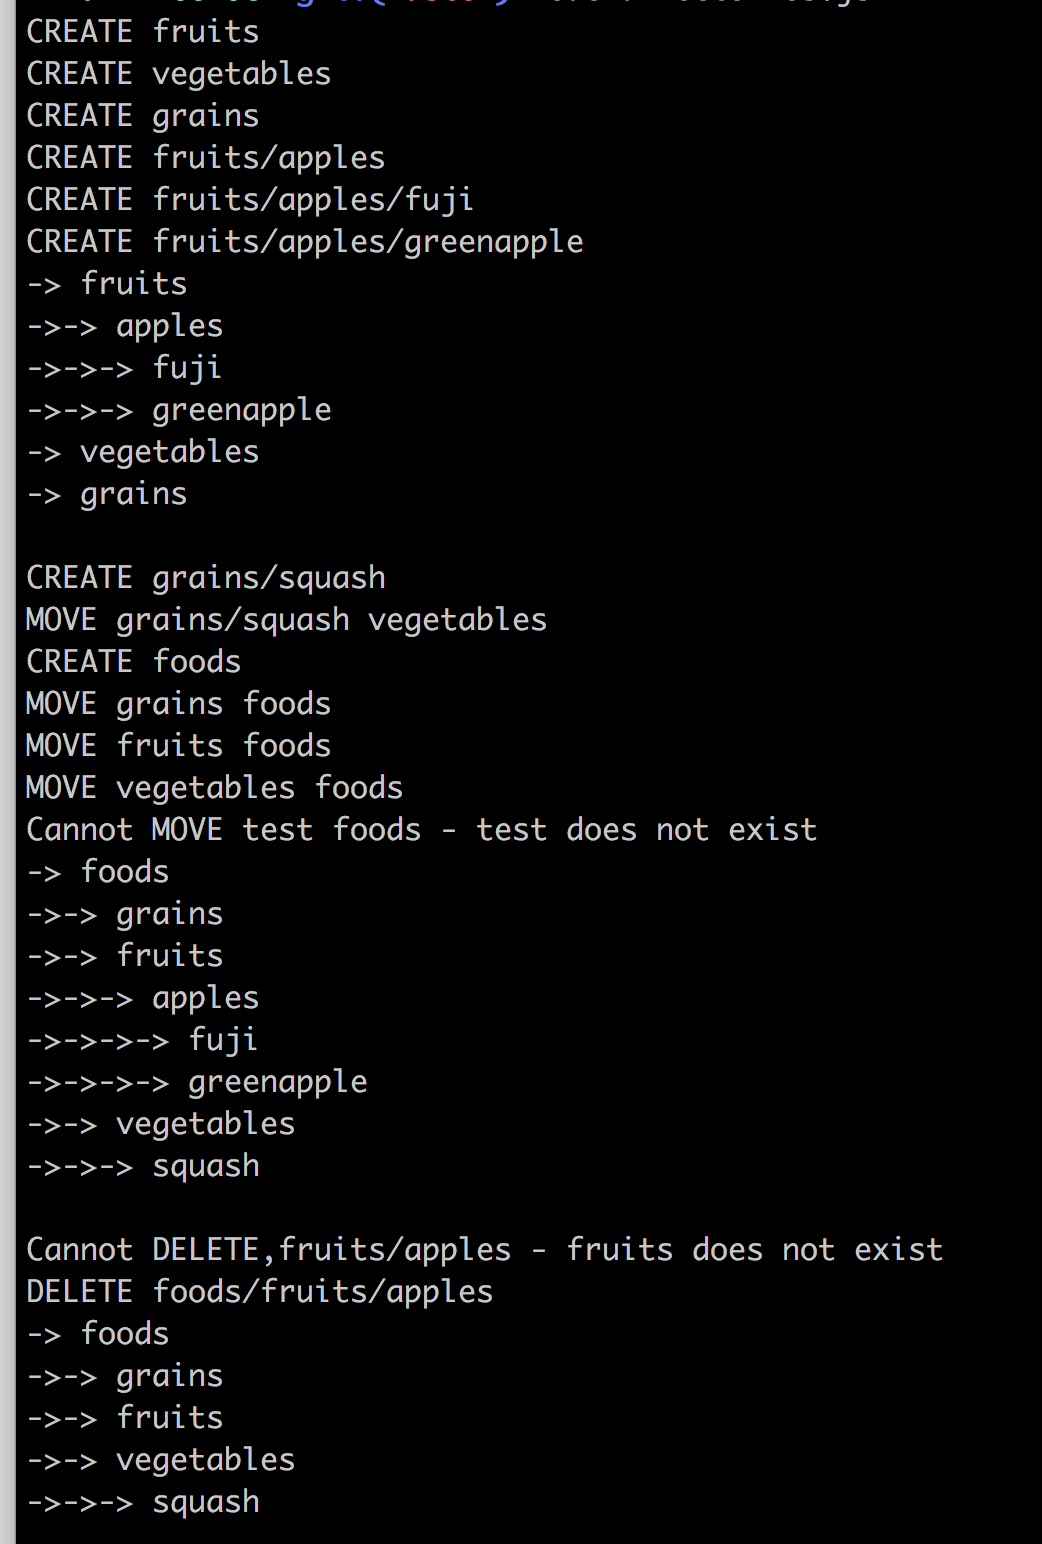
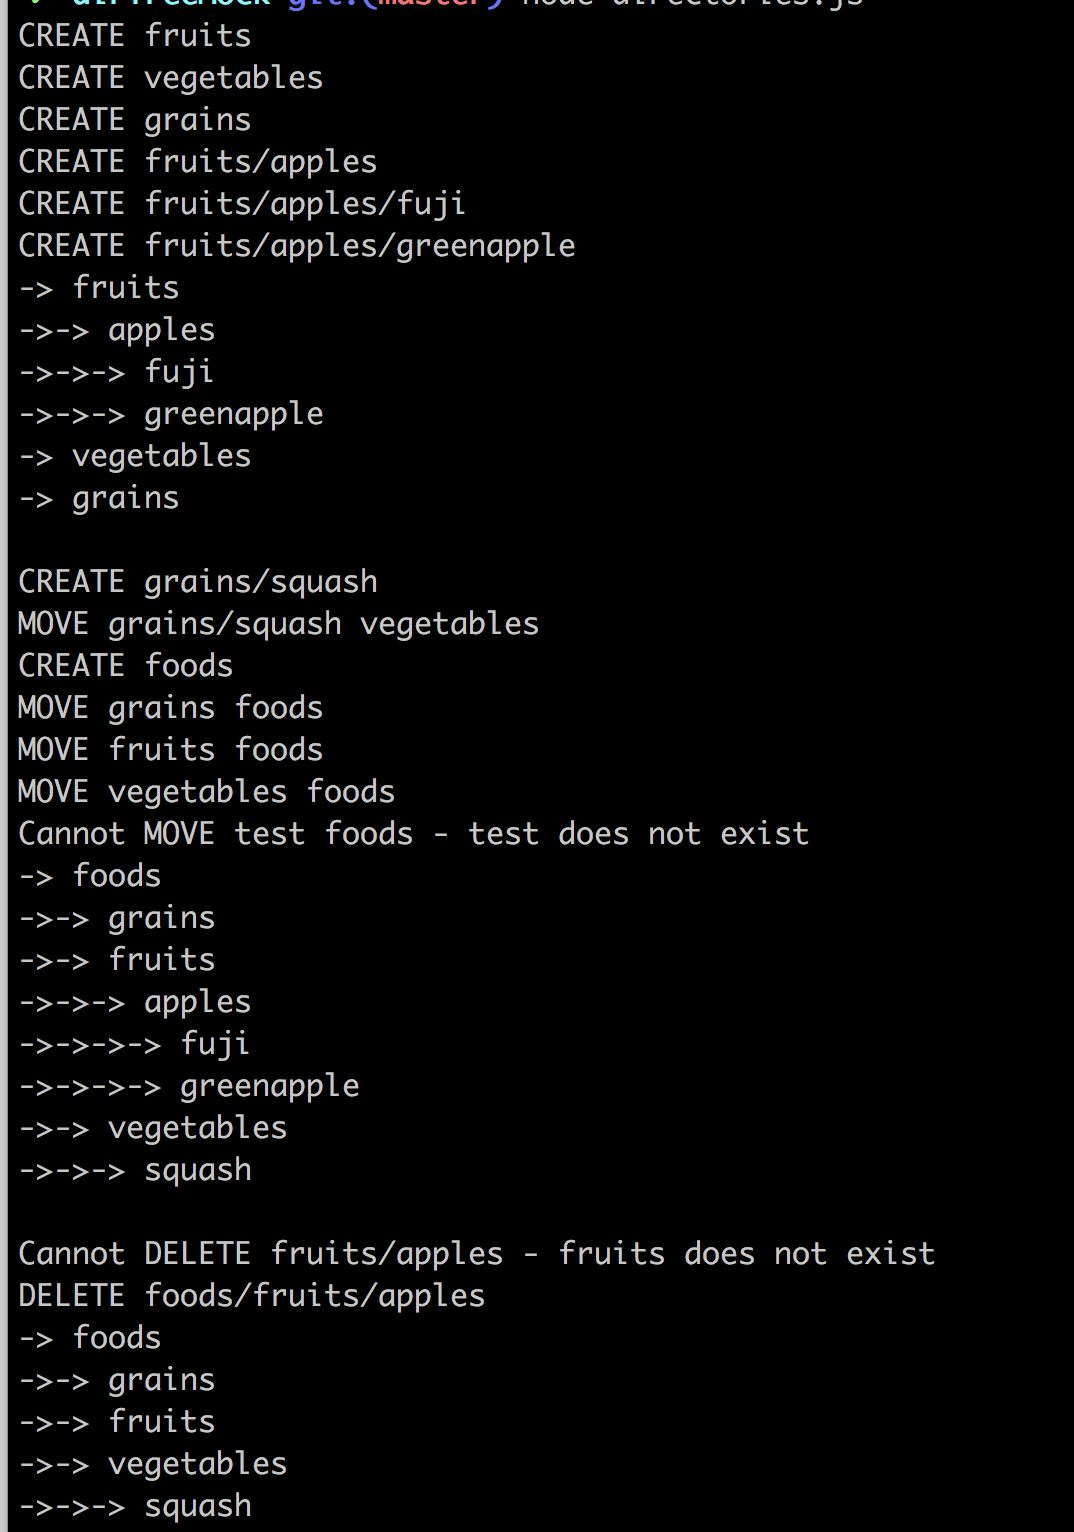
fix string syntax and update readme screenshot

Changed region(s): [[0.0, 0.0, 0.5528, 1.0], [0.5221, 0.7977, 0.9213, 0.8283], [0.4299, 0.5215, 0.7985, 0.5522]]

diff --git a/helpers/deleteAction.js b/helpers/deleteAction.js
@@ -12,7 +12,7 @@ const handleDeleteAction = (cmd, dirTree) => {
         }
       }
 
-      return `Cannot ${cmd} - ${value} does not exist`;
+      return `Cannot ${cmd.join(" ")} - ${value} does not exist`;
     }
   }, dirTree);
 
